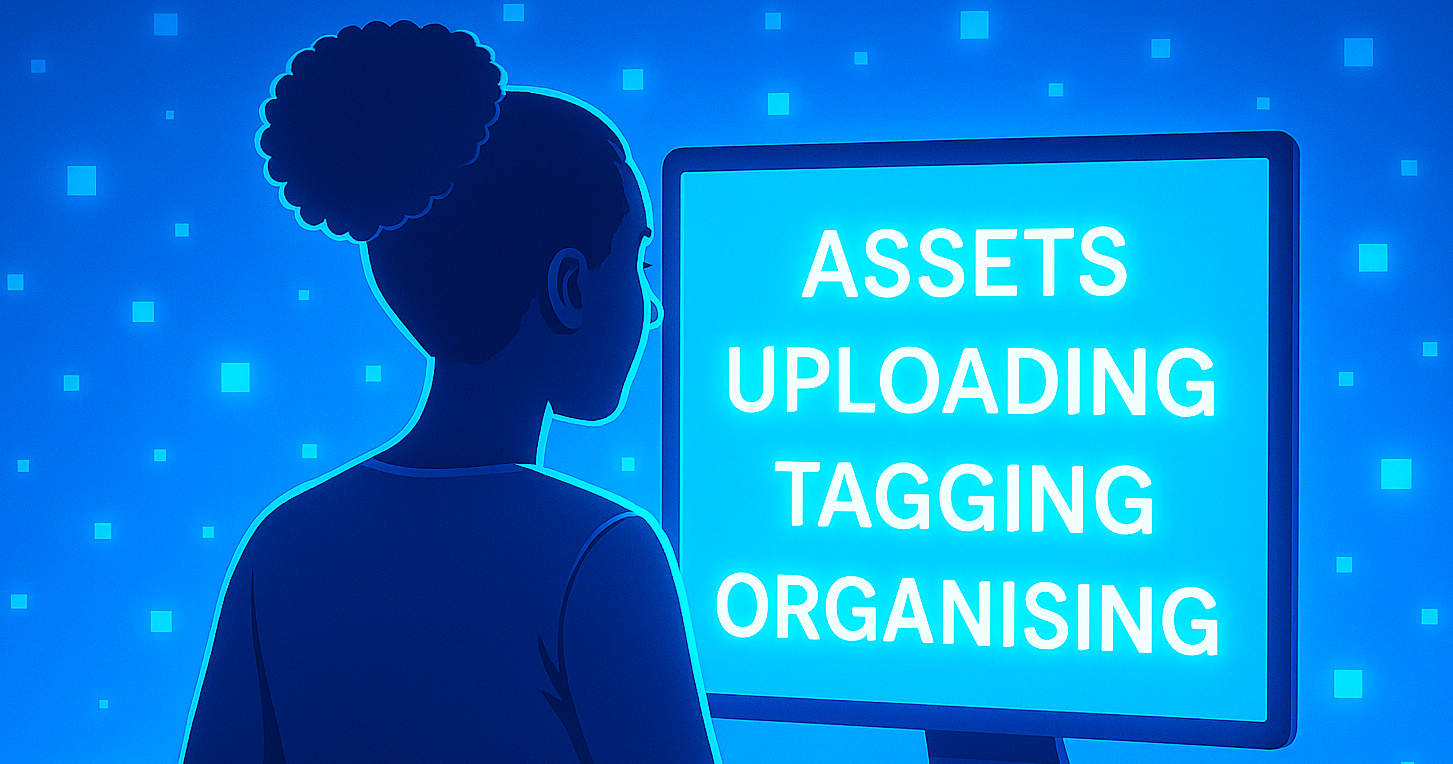
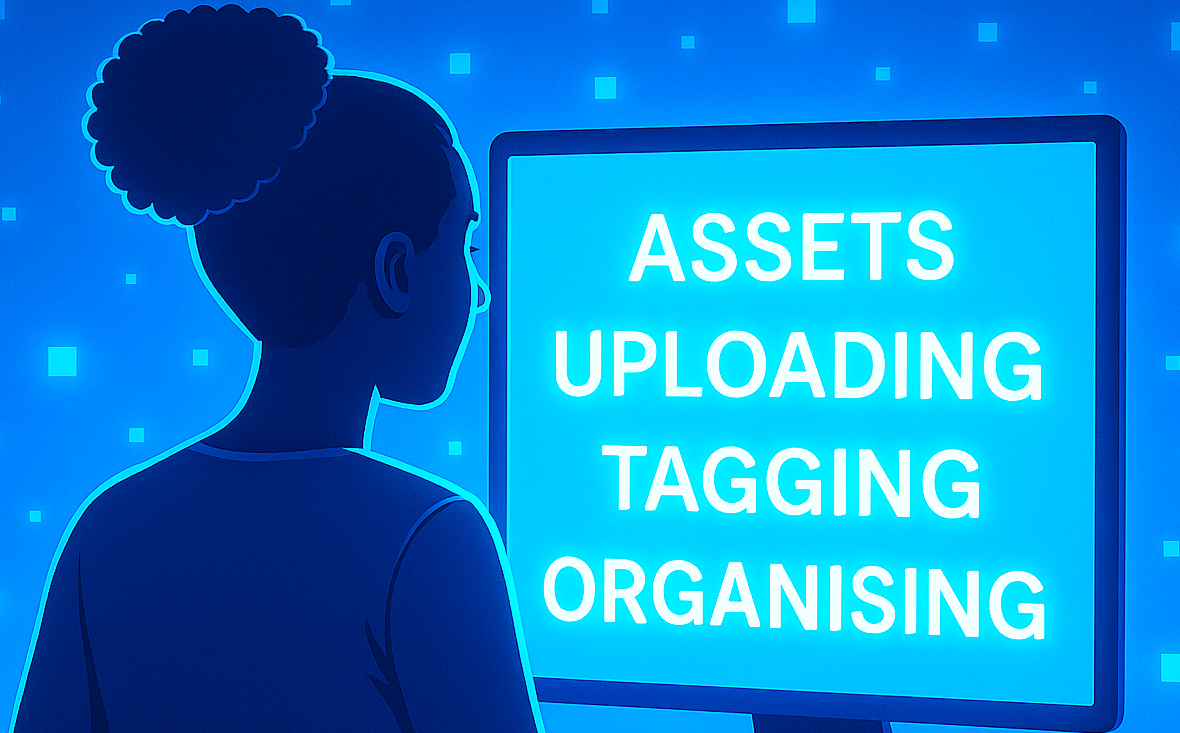
Added about.html

diff --git a/about.html b/about.html
@@ -1,0 +1,152 @@
+<!DOCTYPE html>
+<html lang="en">
+  <head>
+    <meta charset="UTF-8" />
+    <meta name="viewport" content="width=device-width, initial-scale=1.0" />
+    <title>About Maria</title>
+    <link rel="preconnect" href="https://fonts.googleapis.com" />
+    <link rel="preconnect" href="https://fonts.gstatic.com" crossorigin />
+    <link
+      href="https://fonts.googleapis.com/css2?family=Inter:ital,opsz,wght@0,14..32,100..900;1,14..32,100..900&family=League+Spartan:wght@100..900&family=PT+Sans:ital,wght@0,400;0,700;1,400;1,700&family=Radio+Canada+Big:ital,wght@0,400..700;1,400..700&family=Varela+Round&display=swap"
+      rel="stylesheet"
+    />
+    <link
+      href="https://cdn.jsdelivr.net/npm/bootstrap@5.3.5/dist/css/bootstrap.min.css"
+      rel="stylesheet"
+      integrity="sha384-SgOJa3DmI69IUzQ2PVdRZhwQ+dy64/BUtbMJw1MZ8t5HZApcHrRKUc4W0kG879m7"
+      crossorigin="anonymous"
+    />
+    <script
+      src="https://kit.fontawesome.com/96d8e18d9d.js"
+      crossorigin="anonymous"
+    ></script>
+    <link rel="stylesheet" href="src/portfolio.css" />
+  </head>
+  <body class="pt-5">
+    <div class="container">
+      <nav class="navbar navbar-expand-lg bg-body-tertiary rounded-4">
+        <div class="container-fluid">
+          <a class="navbar-brand" href="index.html">Home</a>
+          <button
+            class="navbar-toggler"
+            type="button"
+            data-bs-toggle="collapse"
+            data-bs-target="#navbarNavAltMarkup"
+            aria-controls="navbarNavAltMarkup"
+            aria-expanded="false"
+            aria-label="Toggle navigation"
+          >
+            <span class="navbar-toggler-icon"></span>
+          </button>
+          <div class="collapse navbar-collapse" id="navbarNavAltMarkup">
+            <div class="navbar-nav">
+              <a
+                class="nav-link active"
+                aria-current="page"
+                href="index.html#projects"
+                >My projects</a
+              >
+              <a class="nav-link" href="about.html">About me</a>
+              <a class="nav-link" href="about.html#mail">Contact me</a>
+            </div>
+          </div>
+        </div>
+      </nav>
+      <section>
+        <div class="row text-center">
+          <h1 class="pt-3">About Me</h1>
+          <p class="fs-3 text-muted py-3">
+            My background is in Digital Asset Management. My aspirations are in
+            Software Development.
+          </p>
+
+          <div class="row">
+            <div class="col-6 offset-3">
+              <p class="paragraph">
+                I'm Maria, a digital asset coordinator who's slowly growing into
+                a software developer. For the past few years, I've been
+                organising, tagging and uploading digital content libraries so
+                people can actually find stuff. My background's a mix of digital
+                asset management and prepping AI datasets.
+                <br />
+                <br />
+                These days I'm pushing myself through CS50 and tackling frontend
+                coding projects with SheCodes. The dream? To build intuitive
+                tools that will immensely benefit the field that I'm in. When
+                I'm not staring at my screen wondering why my coding isn't
+                working, I'm either watching political debates, tagging images
+                or learning French.
+              </p>
+            </div>
+          </div>
+        </div>
+        <h3 class="text-center my-4">
+          Take a look at my latest linked
+          <a
+            href="https://linkedin.com/in/maria-tanyaradzwa"
+            target="_blank"
+            rel="noopener noreferrer"
+            class="text-decoration-none"
+          >
+            <i class="fa-brands fa-linkedin-in"></i
+          ></a>
+          posts!
+        </h3>
+        <div class="row my-4">
+          <div class="col-md-4">
+            <img
+              src="src/linkedin-cs50.png"
+              class="img-thumbnail p-4"
+              alt="LinkedIn post about CS50x"
+            />
+          </div>
+
+          <div class="col-md-4">
+            <img
+              src="src/linkedin-google_dev.png"
+              class="img-thumbnail p-4"
+              alt="LinkedIn post about joining Google Dev community"
+            />
+          </div>
+
+          <div class="col-md-4">
+            <img
+              src="src/linkedin_CS50x.png"
+              class="img-thumbnail p-4"
+              alt="LinkedIn post about CS50 problem Runoff"
+            />
+          </div>
+        </div>
+
+        <hr class="my-5" />
+      </section>
+
+      <div class="text-center">
+        <h2 class="mb-2" id="mail">
+          Connect with me
+          <a
+            href="https://github.com/mariatanya"
+            target="_blank"
+            rel="noopener noreferrer"
+            class="text-decoration-none"
+          >
+            <i class="fa-brands fa-github"></i
+          ></a>
+        </h2>
+        <span>
+          <a
+            href="mailto:mariatanyaradzwakw@gmail.com"
+            class="text-decoration-none me-3"
+            >mariatanyaradzwakw@gmail.com 💌</a
+          >
+        </span>
+      </div>
+      <footer class="py-5 text-center text-muted">Made by Maria. © 2025</footer>
+    </div>
+    <script
+      src="https://cdn.jsdelivr.net/npm/bootstrap@5.3.5/dist/js/bootstrap.bundle.min.js"
+      integrity="sha384-k6d4wzSIapyDyv1kpU366/PK5hCdSbCRGRCMv+eplOQJWyd1fbcAu9OCUj5zNLiq"
+      crossorigin="anonymous"
+    ></script>
+  </body>
+</html>

diff --git a/index.html b/index.html
@@ -22,29 +22,56 @@
     ></script>
     <link rel="stylesheet" href="src/portfolio.css" />
   </head>
-  <body>
+  <body class="pt-5">
     <div class="container">
-      <section class="hero">
-        <h1 class="my-2">Hi! I'm Maria,</h1>
+      <nav class="navbar navbar-expand-lg bg-body-tertiary rounded-4">
+        <div class="container-fluid">
+          <a class="navbar-brand" href="index.html">Home</a>
+          <button
+            class="navbar-toggler"
+            type="button"
+            data-bs-toggle="collapse"
+            data-bs-target="#navbarNavAltMarkup"
+            aria-controls="navbarNavAltMarkup"
+            aria-expanded="false"
+            aria-label="Toggle navigation"
+          >
+            <span class="navbar-toggler-icon"></span>
+          </button>
+          <div class="collapse navbar-collapse" id="navbarNavAltMarkup">
+            <div class="navbar-nav">
+              <a
+                class="nav-link active"
+                aria-current="page"
+                href="index.html#projects"
+                >My projects</a
+              >
+              <a class="nav-link" href="about.html">About me</a>
+              <a class="nav-link" href="about.html#mail">Contact</a>
+            </div>
+          </div>
+        </div>
+      </nav>
 
-        <h2 class="my-2 text-muted">
-          a Digital Asset Manager & aspiring developer
-        </h2>
+      <div class="hero mt-5">
+        <h1>Hi! I'm Maria,</h1>
+
+        <h2 class="text-muted">a Digital Asset Manager & aspiring developer</h2>
 
         <div class="hero-image my-5">
           <img
-            src="src/hero_image.png"
-            class="img-fluid rounded shadow rounded-5"
+            src="src/DAM-image-GPT.png"
+            class="img-fluid rounded shadow-lg rounded-5"
             alt="Silhouette of a woman with Digital Asset Management keywords"
             loading="lazy"
           />
         </div>
-      </section>
+      </div>
 
       <hr />
-      <section class="projects">
+      <section class="projects" id="projects">
         <div class="row my-4">
-          <h3 class="mb-5">These are some of my projects</h3>
+          <h3 class="mb-5">These are some of my frontend projects</h3>
           <div class="col-md-6">
             <div class="card border border-0">
               <div class="card-body">
@@ -131,18 +158,34 @@
           </div>
         </div>
       </section>
+      <hr />
 
-      <div class="buttons d-flex my-3">
+      <div class="buttons text-center py-4">
         <a
           href="about.html"
-          class="btn btn-outline-secondary btn-lg me-3 shadow-custom rounded-5"
+          class="btn btn-outline-secondary btn py-2 px-3 me-3 shadow-custom rounded-5"
           >More about me</a
         >
       </div>
+      <footer class="py-4 text-center text-muted">
+        Made by Maria. © 2025
+        <a
+          href="https://github.com/mariatanya"
+          target="_blank"
+          rel="noopener noreferrer"
+          class="text-decoration-none"
+        >
+          <i class="fa-brands fa-github fa-lg mx-2"></i
+        ></a>
 
-      <footer class="text-center text-muted py-4">
-        Coded by Maria
-        <i class="fa-brands fa-linkedin-in"></i>
+        <a
+          href="https://linkedin.com/in/maria-tanyaradzwa"
+          target="_blank"
+          rel="noopener noreferrer"
+          class="text-decoration-none"
+        >
+          <i class="fa-brands fa-linkedin-in fa-lg"></i
+        ></a>
       </footer>
     </div>
     <script

diff --git a/src/portfolio.css b/src/portfolio.css
@@ -7,7 +7,6 @@
 }
 
 .container {
-  padding: 25px 10px;
 }
 
 body {
@@ -38,7 +37,22 @@ h2 {
 
 .hero-image {
   width: fit-content;
-  max-height: 75%;
+  margin: auto;
+}
+
+.navbar {
+  position: fixed;
+  top: 0;
+  right: 0;
+  left: 0;
+  z-index: 1000;
+  background-color: rgba(255, 255, 255, 0.95);
+  backdrop-filter: blur(5px);
+  transition: background-color var(--transition-speed);
+}
+
+.container.projects {
+  background-color: none;
 }
 
 @media (max-width: 576px) {
@@ -56,5 +70,11 @@ h2 {
 
   .btn-outline-secondary {
     padding: 3px 5px;
+  }
+}
+
+@media (min-width: 768px) {
+  .navbar {
+    padding-left: 30px;
   }
 }
